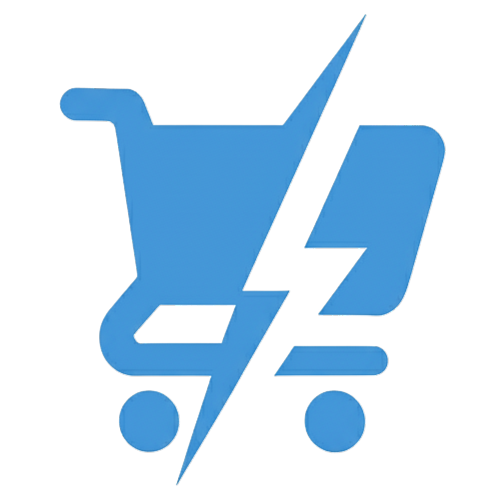
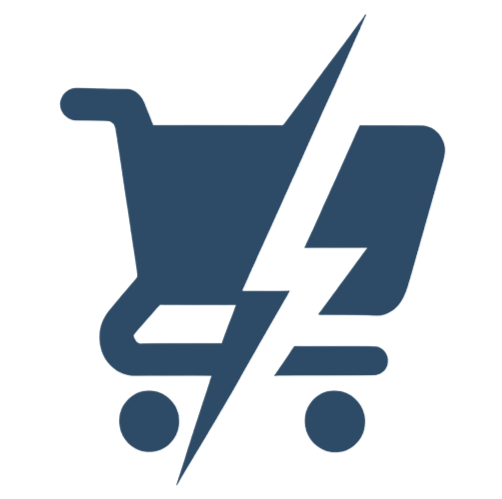
checkpoitn

diff --git a/frontend/src/components/ShoppingListComponent.jsx b/frontend/src/components/ShoppingListComponent.jsx
@@ -5,6 +5,19 @@ import QuantityAdjuster from './QuantityAdjuster';
 
 import { Button } from 'react-bootstrap';
 
+// Logos
+import aldiLogo from '../assets/ALDI_logo.svg';
+import colesLogo from '../assets/coles_logo.webp';
+import igaLogo from '../assets/iga_logo.webp';
+import woolworthsLogo from '../assets/woolworths_logo.webp';
+
+const companyLogos = {
+    'Aldi': aldiLogo,
+    'Coles': colesLogo,
+    'Iga': igaLogo,
+    'Woolworths': woolworthsLogo,
+};
+
 const ShoppingListComponent = () => {
   const { items, selections, updateItemQuantity, removeItem } = useShoppingList();
 
@@ -43,7 +56,8 @@ const ShoppingListComponent = () => {
             const substitutes = itemSelections.filter(p => p.id !== item.product.id);
 
             return (
-              <div key={item.product.id} style={{ backgroundColor: 'var(--colorbody)', padding: '0.5rem', marginBottom: '0.5rem', borderRadius: '8px', display: 'flex', flexDirection: 'column' }}>
+              <div key={item.product.id} style={{ position: 'relative', backgroundColor: 'var(--colorbody)', padding: '0.5rem', marginBottom: '0.5rem', borderRadius: '8px', display: 'flex', flexDirection: 'column' }}>
+                <span onClick={() => removeItem(item.product.id)} style={{ position: 'absolute', top: '0.2rem', right: '0.5rem', cursor: 'pointer', color: 'var(--danger)', fontSize: '1.2rem', lineHeight: 1 }}>&times;</span>
                 {/* First Row */}
                 <div style={{ display: 'flex', alignItems: 'center' }}>
                   <img src={item.product.image_url || trolleyIcon} onError={handleImageError} alt={item.product.name} style={{ width: '50px', height: '50px', marginRight: '1rem', borderRadius: '4px' }} />
@@ -51,7 +65,7 @@ const ShoppingListComponent = () => {
                     <strong>{item.product.name}</strong>
                     <div>
                       <small className="text-muted">{item.product.brand}</small>
-                      <span style={{ backgroundColor: 'var(--colorp2)', color: 'white', padding: '0.2rem 0.4rem', borderRadius: '8px', fontSize: '0.8rem', marginLeft: '0.5rem' }}>
+                      <span style={{ backgroundColor: 'white', color: 'black', padding: '0.2rem 0.4rem', borderRadius: '8px', fontSize: '0.8rem', marginLeft: '0.5rem', border: '1px solid var(--colorp2)' }}>
                         {item.product.size}
                       </span>
                     </div>
@@ -61,14 +75,20 @@ const ShoppingListComponent = () => {
                 {/* Second Row */}
                 <div style={{ display: 'flex', alignItems: 'center', justifyContent: 'space-between', marginTop: '0.5rem' }}>
                   <div>
-                    <small className="text-muted">Price: $X.XX - $Y.YY</small>
+                    {(item.product.prices || []).map(priceData => (
+                      <div key={priceData.company} style={{ display: 'flex', alignItems: 'center' }}>
+                        <img src={companyLogos[priceData.company]} alt={`${priceData.company} logo`} style={{ height: '20px', marginRight: '0.25rem' }} />
+                        <span style={{ color: priceData.is_lowest ? 'var(--success)' : 'var(--text)' }}>
+                          ${priceData.price_display}
+                        </span>
+                      </div>
+                    ))}
                   </div>
                   <div style={{ display: 'flex', alignItems: 'center', gap: '0.5rem' }}>
                     <QuantityAdjuster 
                       quantity={item.quantity} 
                       onQuantityChange={(newQuantity) => updateItemQuantity(item.product.id, newQuantity)} 
                     />
-                    <Button variant="danger" size="sm" onClick={() => removeItem(item.product.id)} style={{ padding: '0.1rem 0.5rem', fontSize: '1rem' }}>Remove</Button>
                   </div>
                 </div>
 

diff --git a/frontend/src/components/LogoButton.jsx b/frontend/src/components/LogoButton.jsx
@@ -9,7 +9,7 @@ const LogoButton = ({ onClick, fontSize }) => {
   return (
     <div onClick={onClick} className="logo-button-container">
       <h1 className="logo-button-text" style={style}>
-        SplitCart<span className="logo-domain">.com.au</span>
+        SplitCart
       </h1>
     </div>
   );

diff --git a/recolor_image.py b/recolor_image.py
@@ -1,0 +1,53 @@
+from PIL import Image
+import colorsys
+import sys
+
+def hsl_to_rgb(h, s, l):
+    """Converts an HSL color value to RGB."""
+    r, g, b = colorsys.hls_to_rgb(h / 360.0, l, s)
+    return int(r * 255), int(g * 255), int(b * 255)
+
+def recolor_image(image_path, output_path, new_hsl_color):
+    """
+    Replaces every non-transparent pixel in an image with a new color.
+
+    Args:
+        image_path (str): The path to the input image.
+        output_path (str): The path to save the new image.
+        new_hsl_color (tuple): The new color in HSL format (h, s, l).
+    """
+    try:
+        img = Image.open(image_path).convert("RGBA")
+    except FileNotFoundError:
+        print(f"Error: Image not found at {image_path}")
+        return
+
+    new_rgb_color = hsl_to_rgb(*new_hsl_color)
+    
+    width, height = img.size
+    for x in range(width):
+        for y in range(height):
+            r, g, b, a = img.getpixel((x, y))
+            if a != 0:
+                img.putpixel((x, y), new_rgb_color + (a,))
+
+    img.save(output_path)
+    print(f"Image saved to {output_path}")
+
+if __name__ == "__main__":
+    if len(sys.argv) != 6:
+        print("Usage: python recolor_image.py <input_image> <output_image> <H> <S> <L>")
+        sys.exit(1)
+
+    input_image = sys.argv[1]
+    output_image = sys.argv[2]
+    try:
+        h = float(sys.argv[3])
+        s = float(sys.argv[4])
+        l = float(sys.argv[5])
+    except ValueError:
+        print("Error: H, S, and L must be numbers.")
+        sys.exit(1)
+
+    target_hsl = (h, s, l)
+    recolor_image(input_image, output_image, target_hsl)
